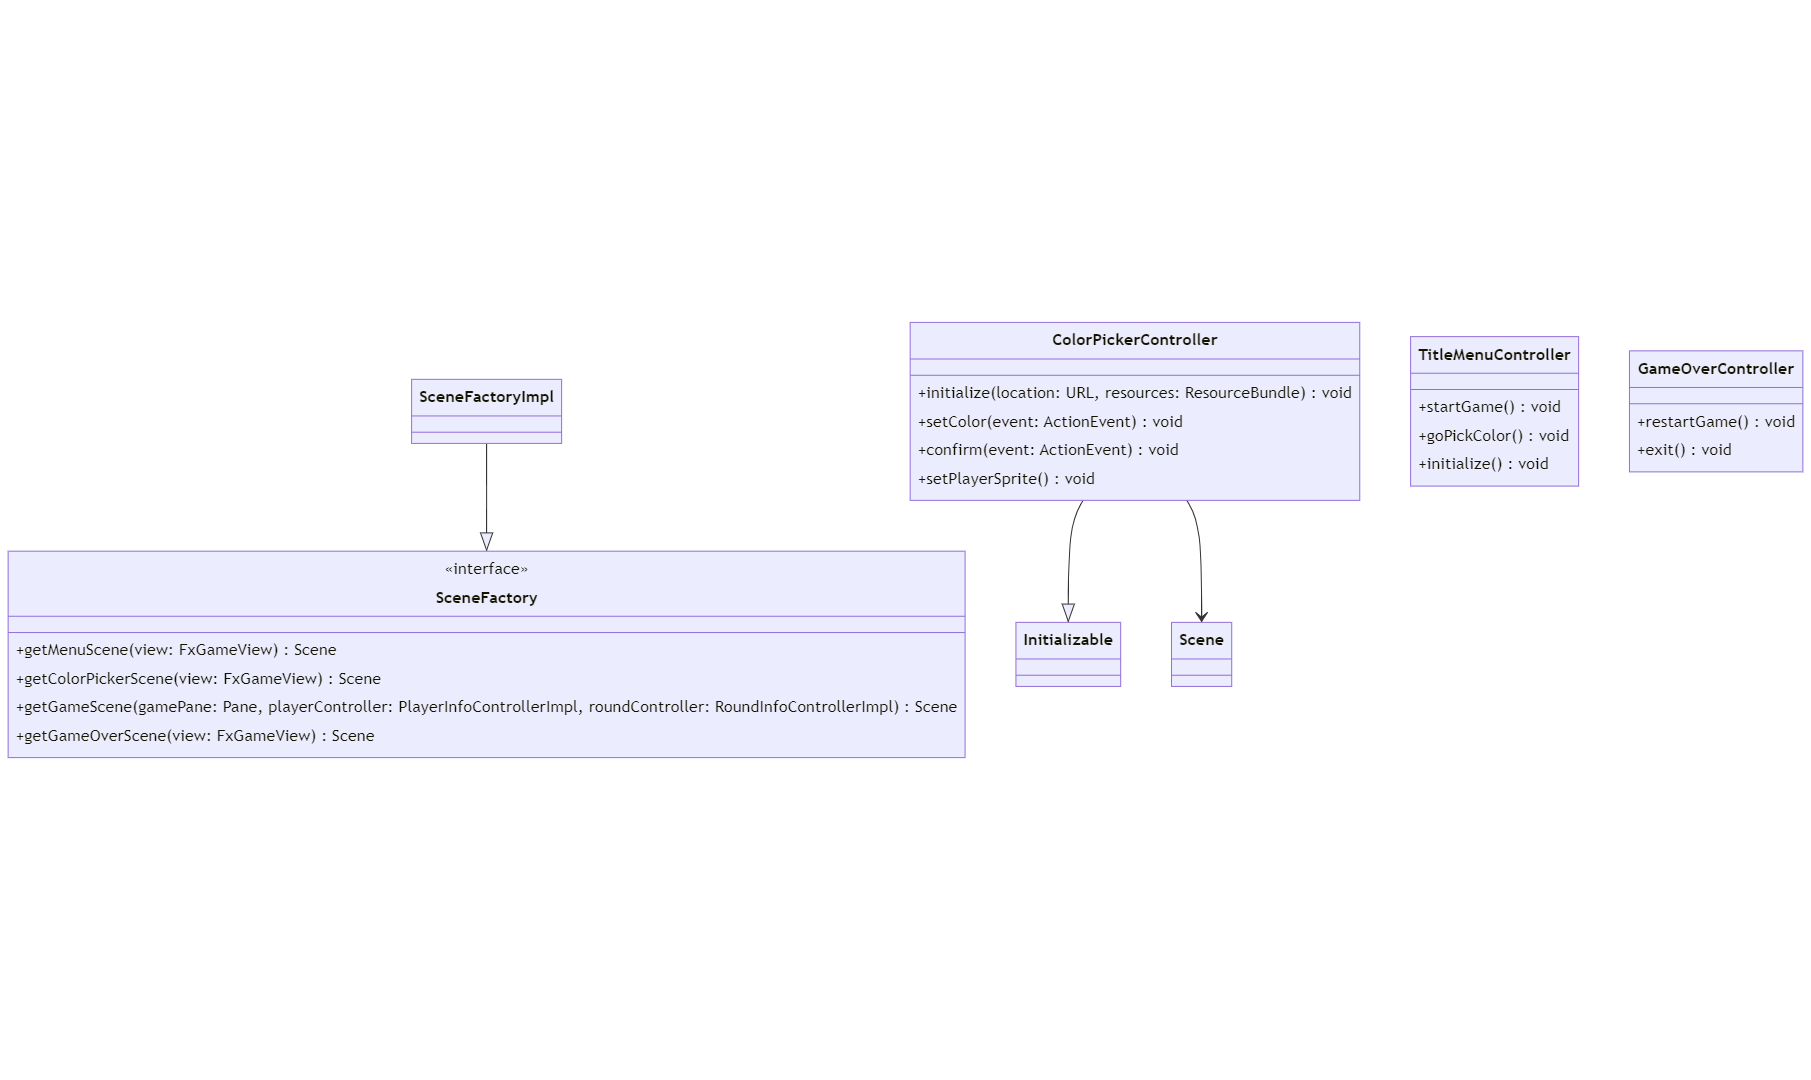
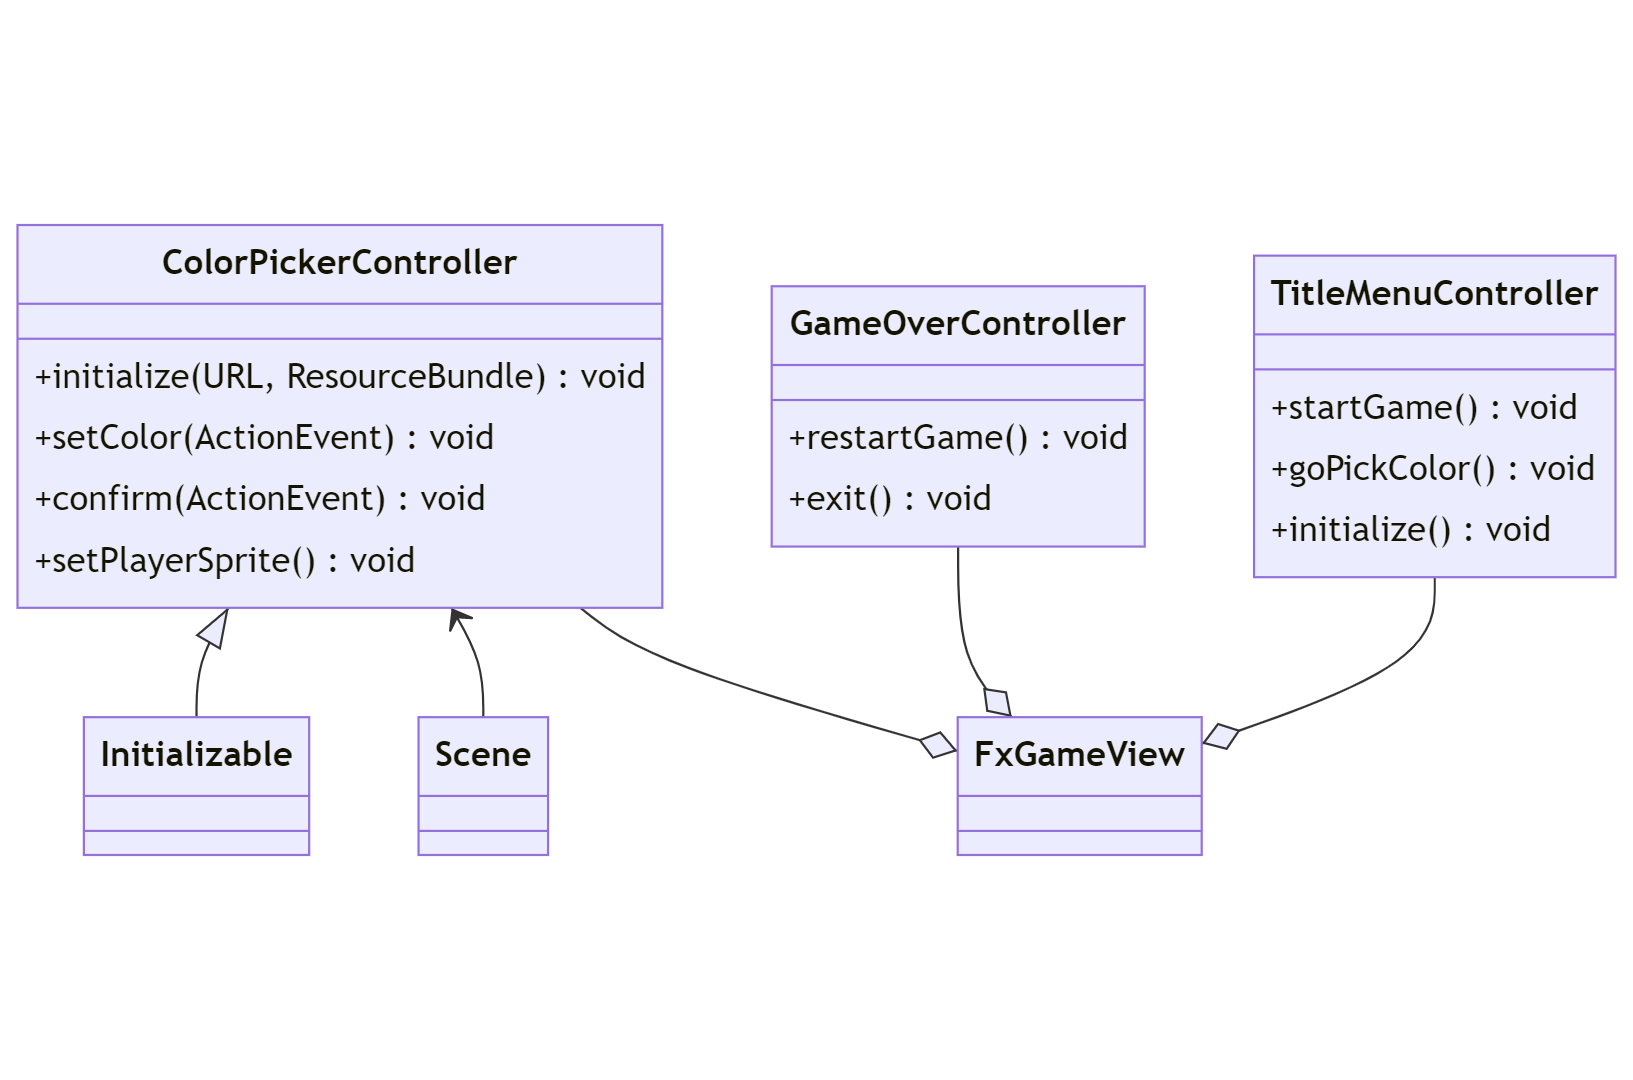
fixed uml

diff --git a/report/mermaid_diagrams/MainScenes_Analysis.md b/report/mermaid_diagrams/MainScenes_Analysis.md
@@ -1,20 +1,11 @@
 classDiagram
 
-SceneFactoryImpl --|> SceneFactory
-ColorPickerController --|> Initializable
-ColorPickerController --> Scene
+ColorPickerController <|-- Initializable
+ColorPickerController <-- Scene
 
-class SceneFactory {
-    <<interface>>
-    + getMenuScene(view: FxGameView): Scene
-    + getColorPickerScene(view: FxGameView): Scene
-    + getGameScene(gamePane: Pane, playerController: PlayerInfoControllerImpl, roundController: RoundInfoControllerImpl): Scene
-    + getGameOverScene(view: FxGameView): Scene
-}
-
-class SceneFactoryImpl {
-    
-}
+GameOverController --o FxGameView
+TitleMenuController --o FxGameView
+ColorPickerController --o FxGameView
 
 class TitleMenuController {
     + startGame(): void
@@ -23,9 +14,9 @@ class TitleMenuController {
 }
 
 class ColorPickerController {
-    + initialize(location: URL, resources: ResourceBundle): void
-    + setColor(event: ActionEvent): void
-    + confirm(event: ActionEvent): void
+    + initialize(URL, ResourceBundle): void
+    + setColor(ActionEvent): void
+    + confirm(ActionEvent): void
     + setPlayerSprite(): void
 }
 
@@ -33,3 +24,5 @@ class GameOverController {
     + restartGame(): void
     + exit(): void
 }
+
+class FxGameView
